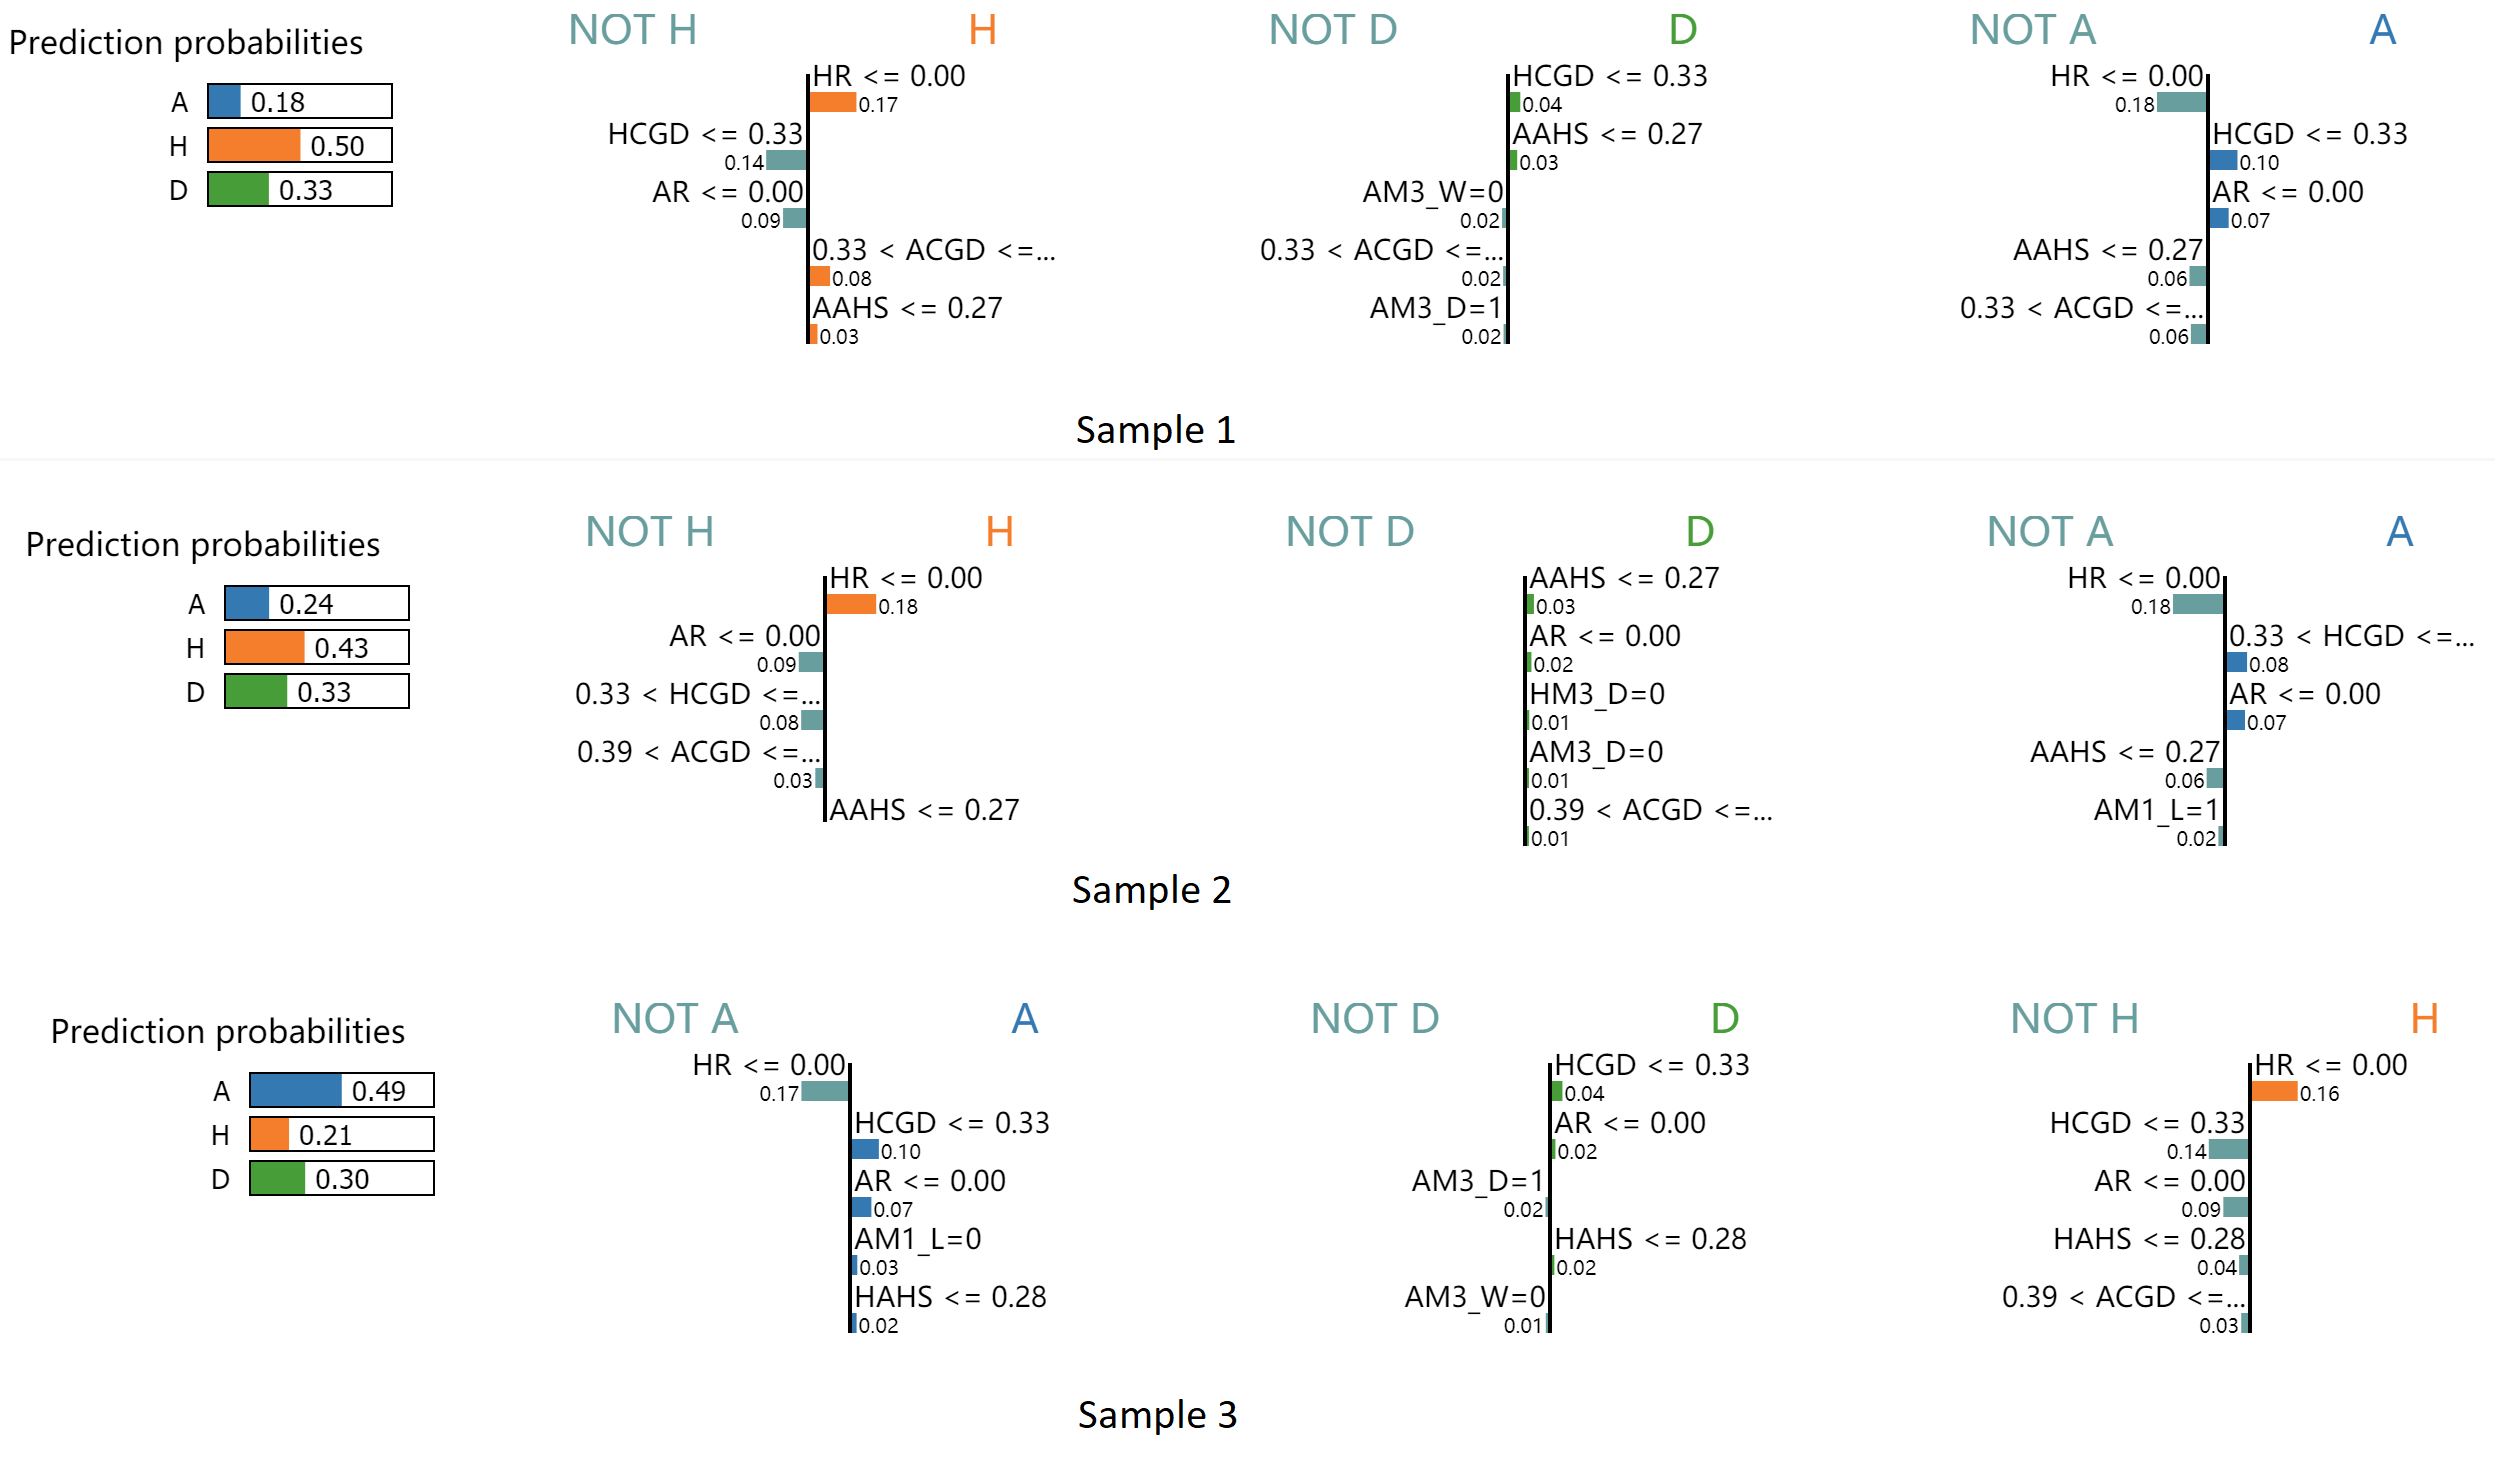
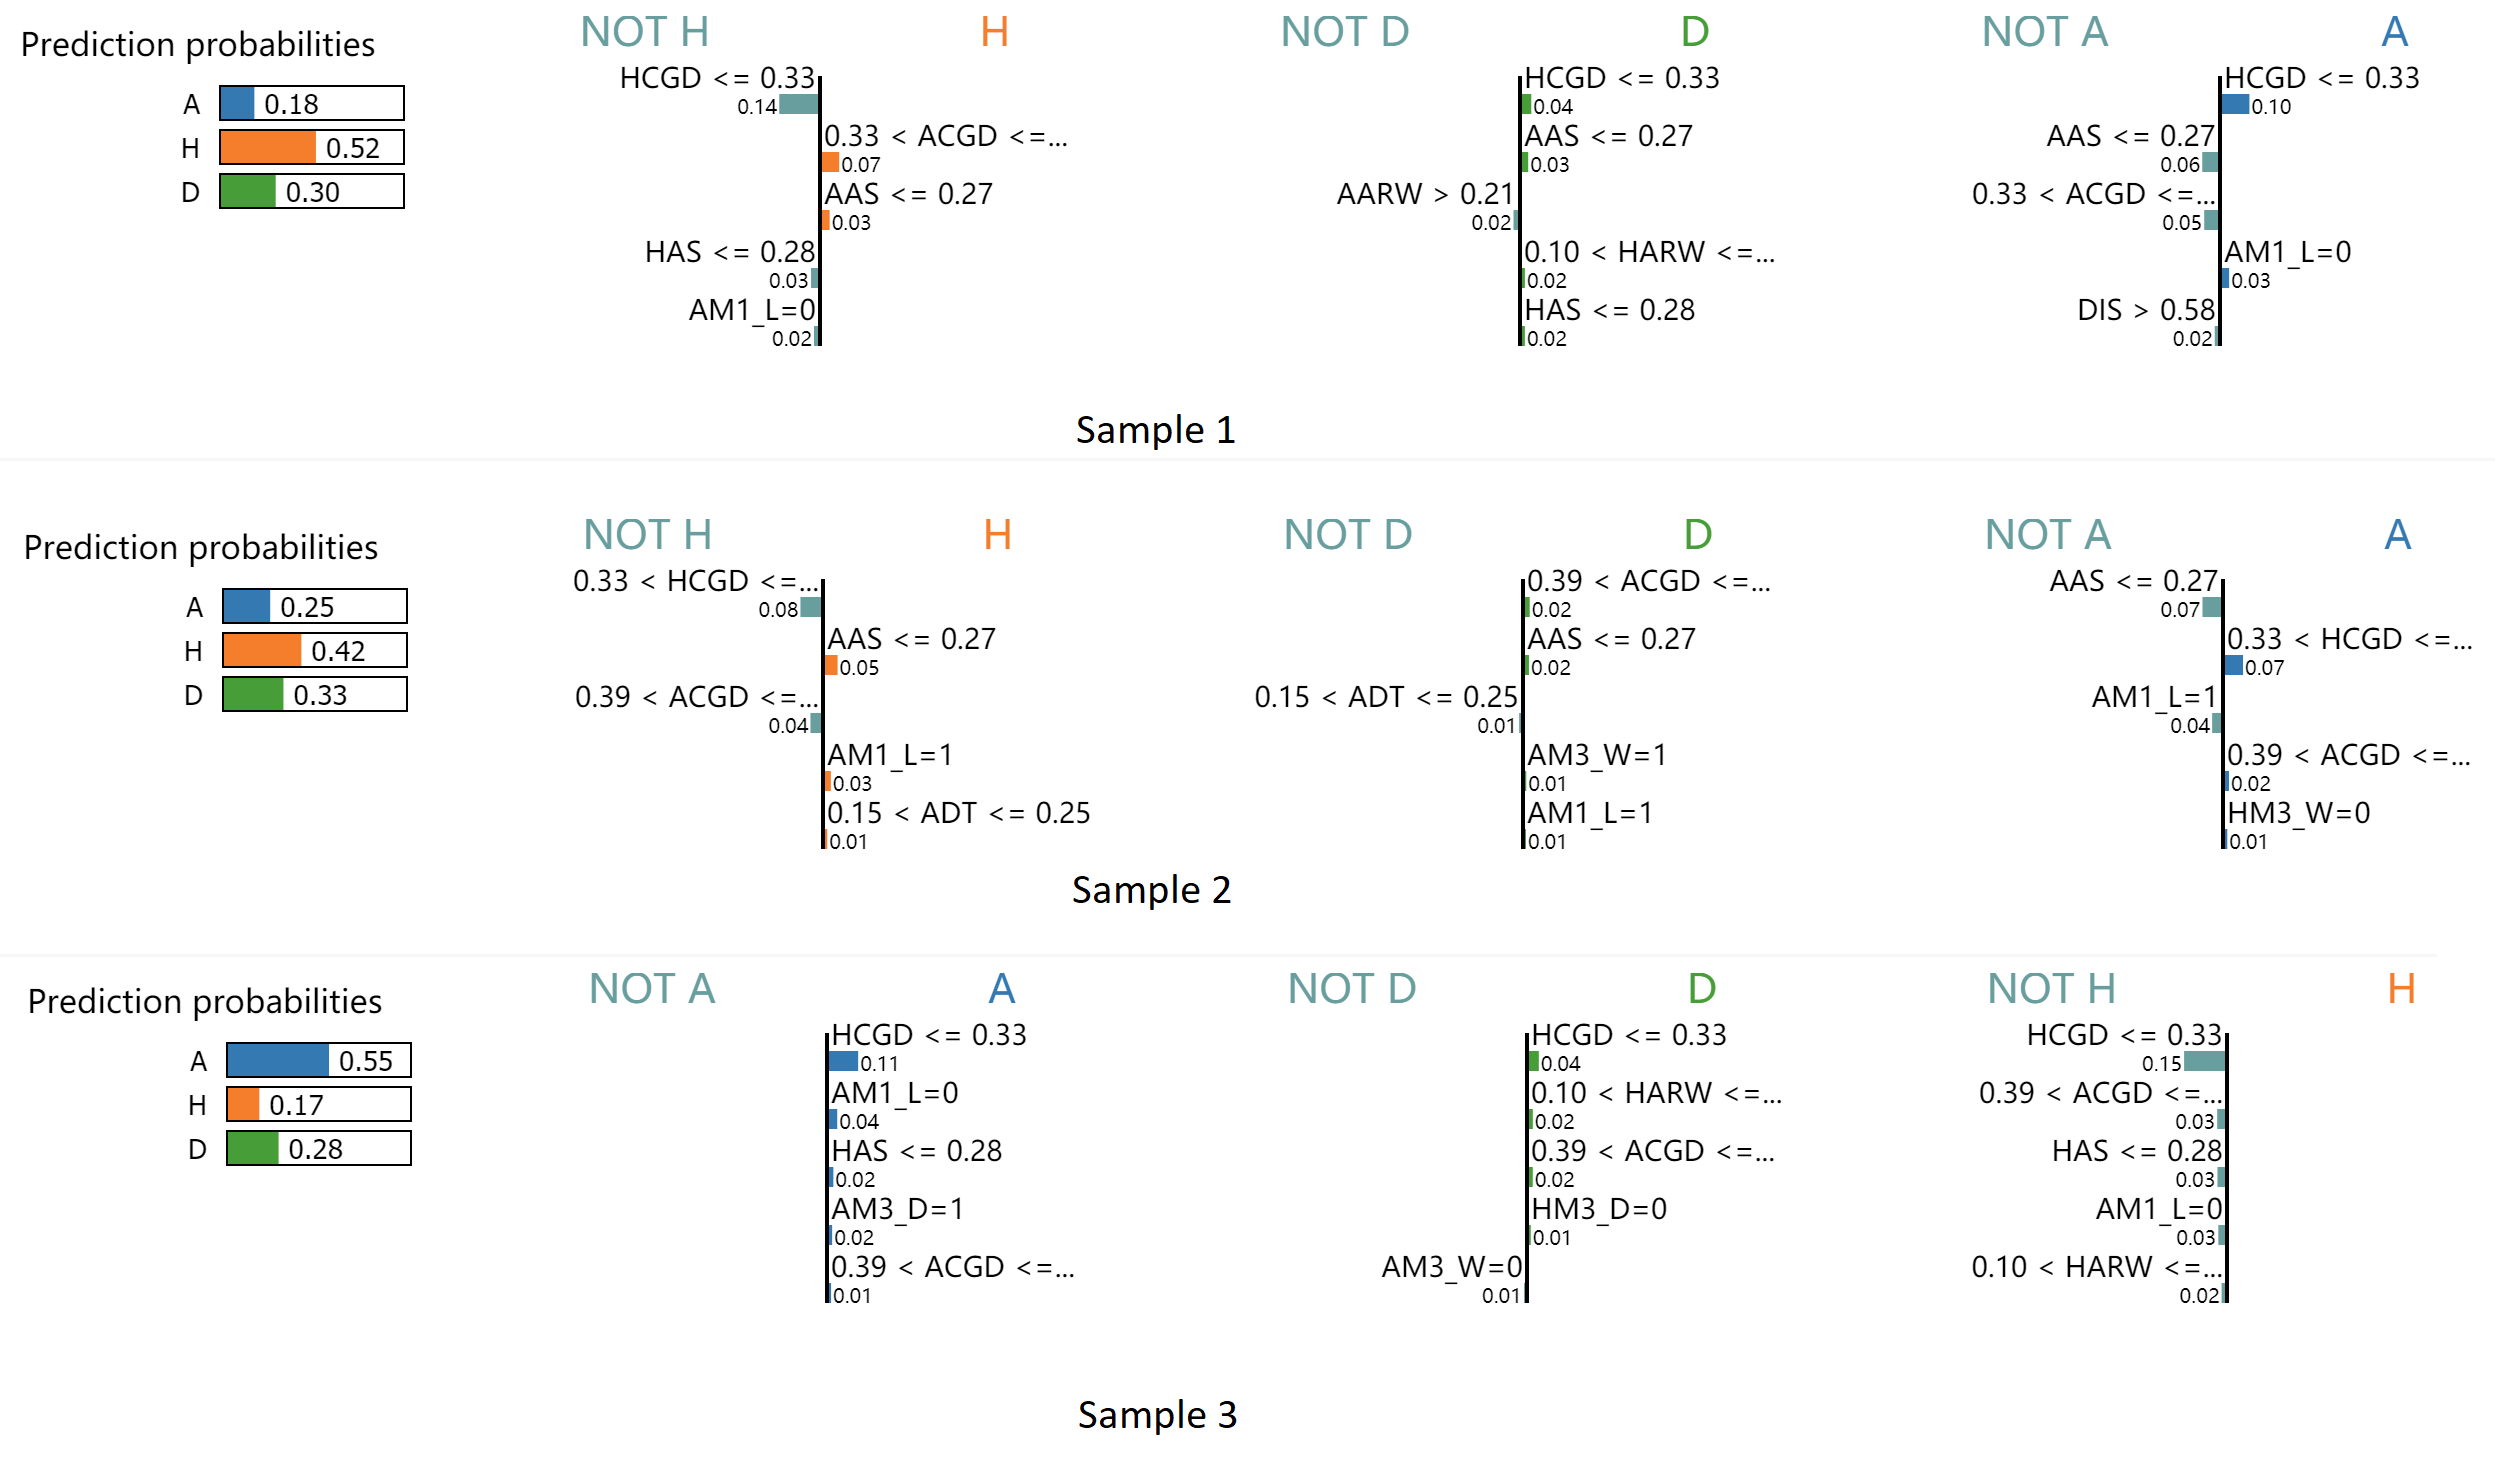
2

diff --git a/latex report/report.tex b/latex report/report.tex
@@ -358,22 +358,19 @@ The explanations of results are:
 \subsection{Analysis \& Insights}
 As shown above, there are three possible results: H (HomeTeam win), A (AwayTeam win) and D (Draw). For each result, classifier takes different features as  evaluation criterion:
 \begin{itemize}
-\item[-] For H/Not H and A/Not A, this classifier takes HR (Average number of red cards received by the home team in nearly matches) as the most significant feature to determine the winning percentage of home team. In the other words, if a home team did not get any red cards in the matche, on average, the winning rate of home team would be about 0.17 higher. \\
+\item[-] As an essential feature representing the player's capability of home team, HCGD (the cumulative full-time goal difference by home team) is the most significant factor for model to predict the final results. More specifically, if HCGD of home team is lower than 0.33 (after normlization), on average, the winning rate of home team would be about 0.11 less.\\
 ~\\
-From the rules of football match, if a football player get a red card, he will not be permitted to take furthur part in the game, this can be regarded as an disadvantage in matches.\\
-
-\item[-] Similarly, AR (Average number of red cards received by the away team in nearly matches) also plays an important role in final results. However, comparing with HR, AR has less effect on final results. The reason for that need to be carefully discussed in future. 
+\item[-] Similarly, ACGD (the cumulative full-time goal difference by away team) also plays an important role in final results. However, comparing with HCGD, ACGD has less effect on final results, and the reason for that need to be carefully discussed in future. 
 \\
-
-\item[-] As an essential feature representing the player's capability of home team, HCGD (the cumulative full-time goal difference by home team) cannot be neglected, either. The rise of HCGD can effectively increase the possibility of hometeam-win.\\
+item[-] For H/Not H and A/Not A, the classifier also takes HARW (Average number of red cards received by the home team in nearly matches) to determine the winning percentage of home team. From the rules of football match, if a football player get a red card, he will not be permitted to take furthur part in the game and may be banned for next 3 matches, this can be a huge disadvantage in matches.\\
 ~\\
-In the other side, ACGD (the cumulative full-time goal difference by away team) does not have clear relationship with final results.
+In the other side, AARW (Average number of red cards received by the away team in nearly matches) does not have clear relationship with final results.
 \\
 
-\item[-] The possibility of Draw is related to a number of factors, such as AR, HCGD, and AHS. Nevertheless, each one of them does not have more impact on final results than others. The explanation of these 3 samples illustrates that Draw might be a coincident to some extent under particular situation.
+\item[-] The possibility of Draw is related to a number of factors, such as AARW, HCGD, and AHS. Nevertheless, each one of them does not have more impact on final results than others. The explanation of these 3 samples illustrates that Draw might be a coincident to some extent under particular situation.
 \\
 
-\item[-] This explanation also reveal that HDT/ADT (the delta time from last match of home team and away tea) and DIS (distance between two teams) have little effect on results. 
+\item[-] This explanation also reveal that HDT/ADT (the delta time from last match of home team and away team) and DIS (distance between two teams) have little effect on results. 
 \\
 
 \end{itemize}
